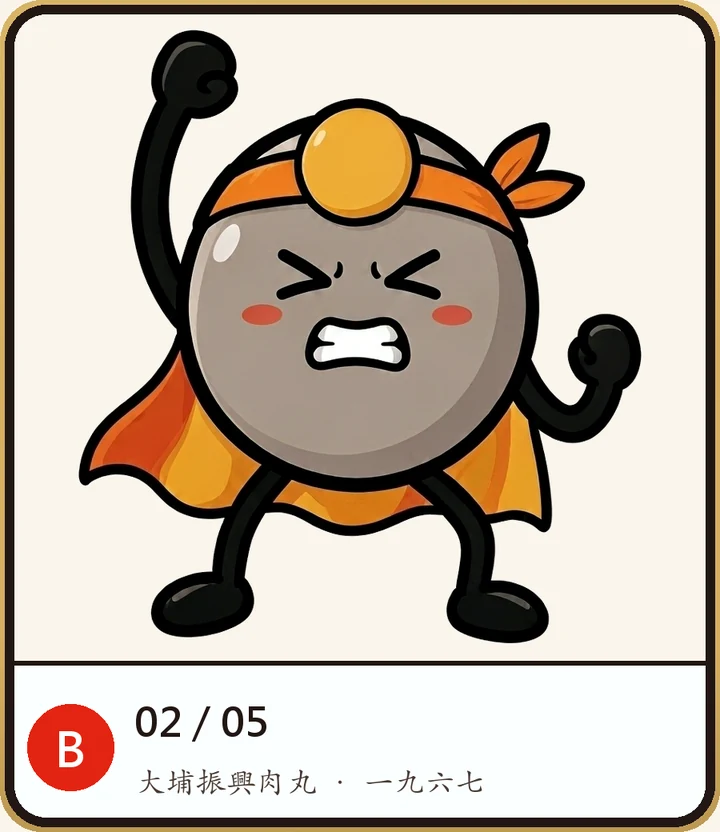
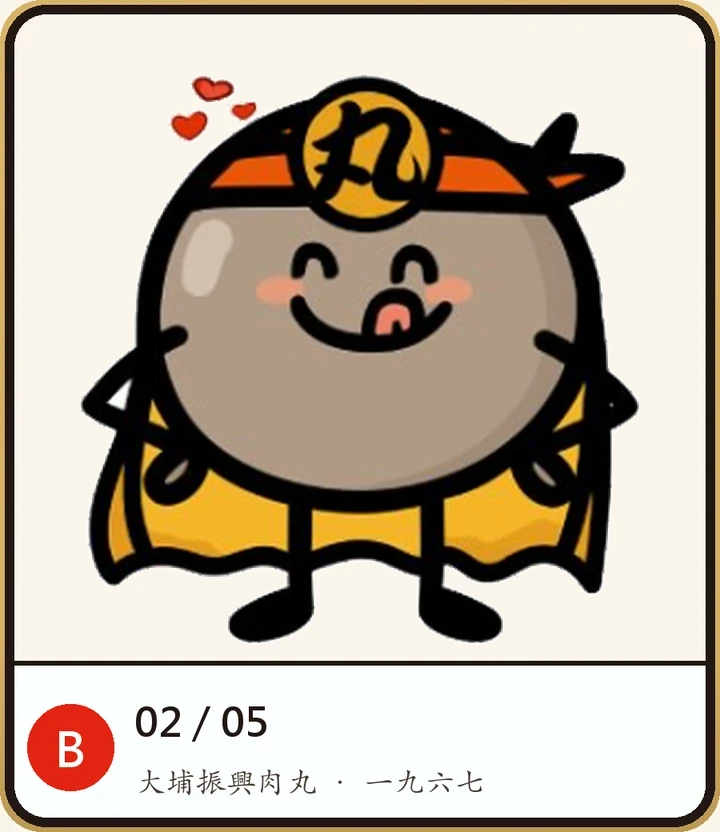
集卡活動頁：B 卡面換新圖（叉腰愛心）、卡名改為「丸俠 · yummy！」

diff --git a/index.html b/index.html
@@ -106,6 +106,19 @@
   .btn:active{transform:translateY(4px);box-shadow:0 2px 0 var(--ink);}
   .btn[disabled]{background:#c9bdb7;box-shadow:0 4px 0 var(--ink);cursor:default;}
 
+  /* ===== 測試用抽卡按鈕（僅網址帶 test 參數時出現，正式連結看不到） ===== */
+  #testDraw{
+    position:fixed;right:12px;bottom:12px;z-index:95;display:none;
+    padding:9px 12px;border:3px solid var(--ink);border-radius:14px;
+    background:#2B2622;color:#FFE9A8;
+    font:inherit;font-size:13px;font-weight:900;letter-spacing:.06em;line-height:1.25;
+    box-shadow:0 5px 0 var(--ink);cursor:pointer;
+    -webkit-tap-highlight-color:transparent;user-select:none;
+  }
+  #testDraw.on{display:block;}
+  #testDraw:active{transform:translateY(3px);box-shadow:0 2px 0 var(--ink);}
+  #testDraw .sub{display:block;margin-top:3px;font-size:10px;font-weight:700;letter-spacing:0;color:#C9BDAF;}
+
   .msg{
     margin:12px 2px 0;font-size:13px;font-weight:800;line-height:1.5;border-radius:10px;
     padding:9px 11px;display:none;
@@ -662,6 +675,8 @@
   </div>
 </div>
 
+<button id="testDraw" type="button">測試抽卡<span class="sub">點一下抽 1 張 · Shift 連抽 10</span></button>
+
 <script>
 (function(){
   'use strict';
@@ -669,7 +684,7 @@
   /* ================= 卡池（共 5 張：普通 ×2、稀有 ×2、隱藏 ×1） ================= */
   var CARDS = [
     { id:'A', name:'魚丸隊長 · 叉腰', rank:'普通', img:'assets/card_a.webp', thumb:'assets/thumb_a.webp' },
-    { id:'B', name:'丸俠 · 蓄力',     rank:'普通', img:'assets/card_b.webp', thumb:'assets/thumb_b.webp' },
+    { id:'B', name:'丸俠 · yummy！',  rank:'普通', img:'assets/card_b.webp?v=20261115b', thumb:'assets/thumb_b.webp?v=20261115b' },
     { id:'C', name:'魚丸隊長 · 騰空', rank:'稀有', img:'assets/card_c.webp?v=20261115d', thumb:'assets/thumb_c.webp?v=20261115d' },
     { id:'D', name:'丸俠 · 展翅',     rank:'稀有', img:'assets/card_d.webp', thumb:'assets/thumb_d.webp' },
     /* ★ 隱藏款：雙角色同框。卡面圖未出，ready:false ⇒ 卡冊照樣顯示第 5 格（鎖定態）、但不進入抽卡池。
@@ -1582,6 +1597,53 @@
       im.src = src;
     });
   }, 800);
+
+  /* ================= 測試工具：無限抽卡 =================
+     ★ 只在網址帶 test 時啟用（?test=1 或 #test），正式連結看不到這顆按鈕。
+     走的是同一套 drawCard() 權重，只是跳過 canDraw() 的發卡限制。 */
+  (function testDrawTool(){
+    var q = location.search + location.hash;
+    if (q.indexOf('test') < 0) return;
+
+    var btn = document.getElementById('testDraw');
+    if (!btn) return;
+    btn.classList.add('on');
+
+    var n = 0, last = null;
+
+    function once(){
+      var users = readUsers();
+      var u = users[currentUser];
+      if (!u) return null;
+      if (!u.cards) u.cards = [];
+      var owned = {};
+      u.cards.forEach(function(id){ owned[id] = 1; });
+      var card = drawCard(owned);
+      u.cards.push(card.id);
+      u.lastDraw = Date.now();
+      writeUsers(users);
+      return card;
+    }
+
+    function run(times){
+      if (!currentUser || !readUsers()[currentUser]){ toast('請先登入再測試'); return; }
+      for (var i = 0; i < times; i++){
+        var c = once();
+        if (!c) break;
+        last = c;
+        n++;
+      }
+      renderMain();
+      if (last) showReveal(last);
+      btn.innerHTML = '測試抽卡<span class="sub">已抽 ' + n + ' 張 · Shift 連抽 10</span>';
+    }
+
+    btn.addEventListener('click', function(e){
+      e.stopPropagation();
+      run(e.shiftKey ? 10 : 1);
+    });
+    btn.addEventListener('contextmenu', function(e){ e.preventDefault(); });
+  })();
 
   (function boot(){
     var cur = getCur();
